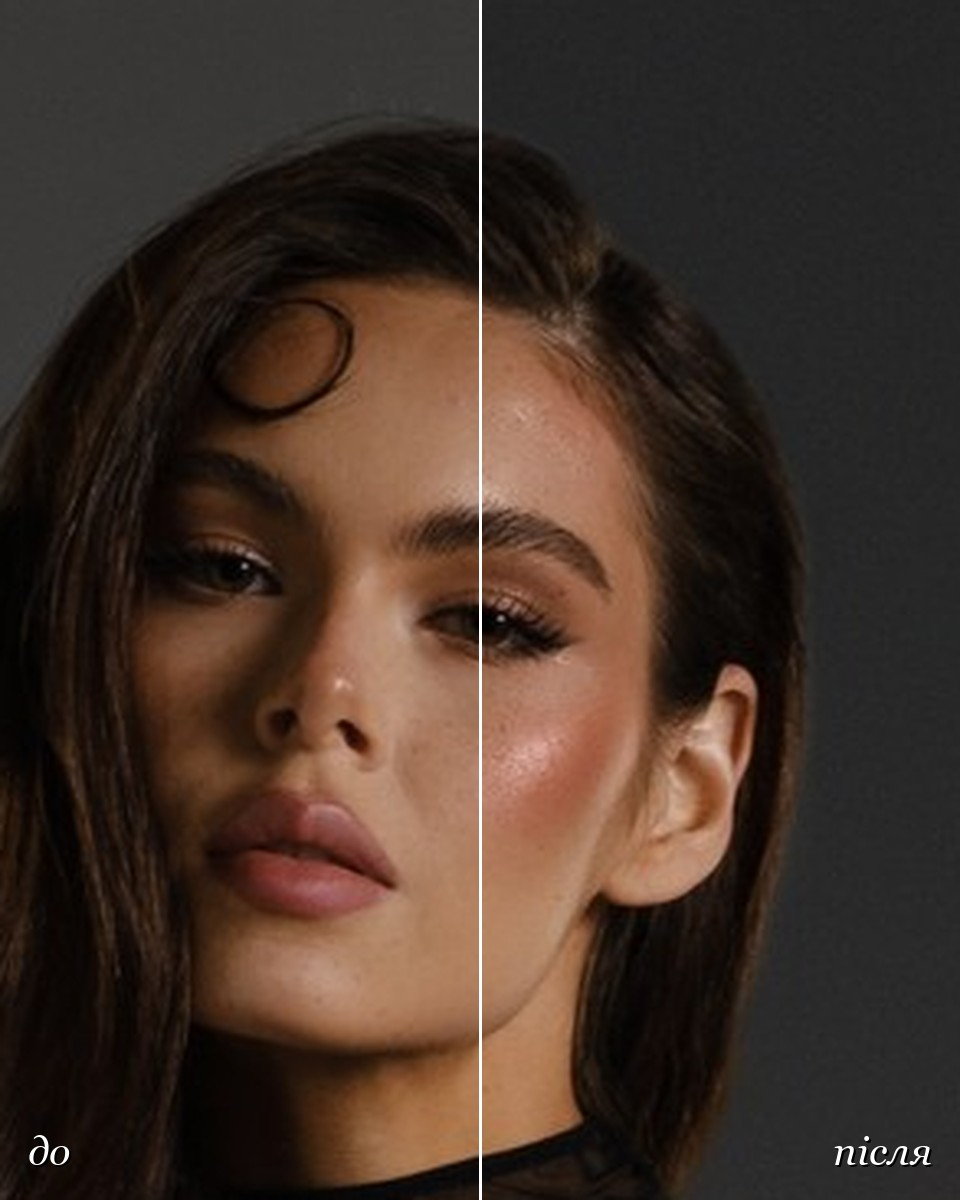
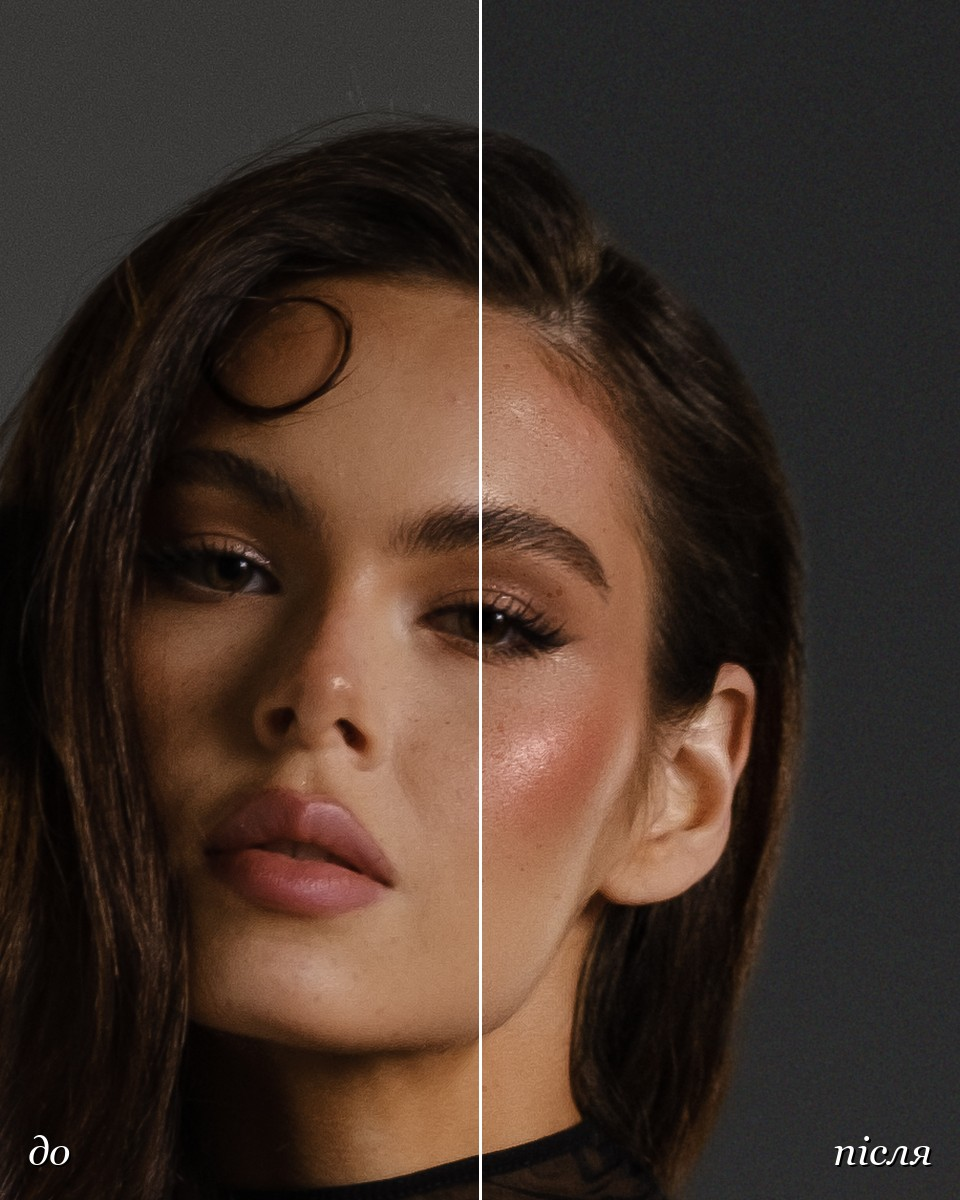
Курс: Марія в альбомі з оригіналу 4160x6240, різко
Claude-Session: https://claude.ai/code/session_01FGnz1L3LF5h6eyQ2pyrQ3A

diff --git a/bot.py b/bot.py
@@ -1355,7 +1355,7 @@ KURS_ALBUM_CAP = "Ретуш Іри: до і після. Шкіра лишаєт
 def send_kurs_album(chat_id):
     """Чотири пари до/після одним альбомом; перший раз заливаємо файлами, далі file_id з kv."""
     try:
-        fids = (store.kv_get("pic:kurs_album_navpil") or "").split(",")
+        fids = (store.kv_get("pic:kurs_album_navpil2") or "").split(",")
         if len(fids) == len(KURS_ALBUM) and all(fids):
             media = [{"type": "photo", "media": f} for f in fids]
             media[0]["caption"] = KURS_ALBUM_CAP
@@ -1372,7 +1372,7 @@ def send_kurs_album(chat_id):
             for f in files.values():
                 f.close()
         if j.get("ok"):
-            store.kv_set("pic:kurs_album_navpil", ",".join(m["photo"][-1]["file_id"] for m in j["result"]))
+            store.kv_set("pic:kurs_album_navpil2", ",".join(m["photo"][-1]["file_id"] for m in j["result"]))
             return True
         log.warning("send_kurs_album: %s", j.get("description"))
     except Exception as e:
